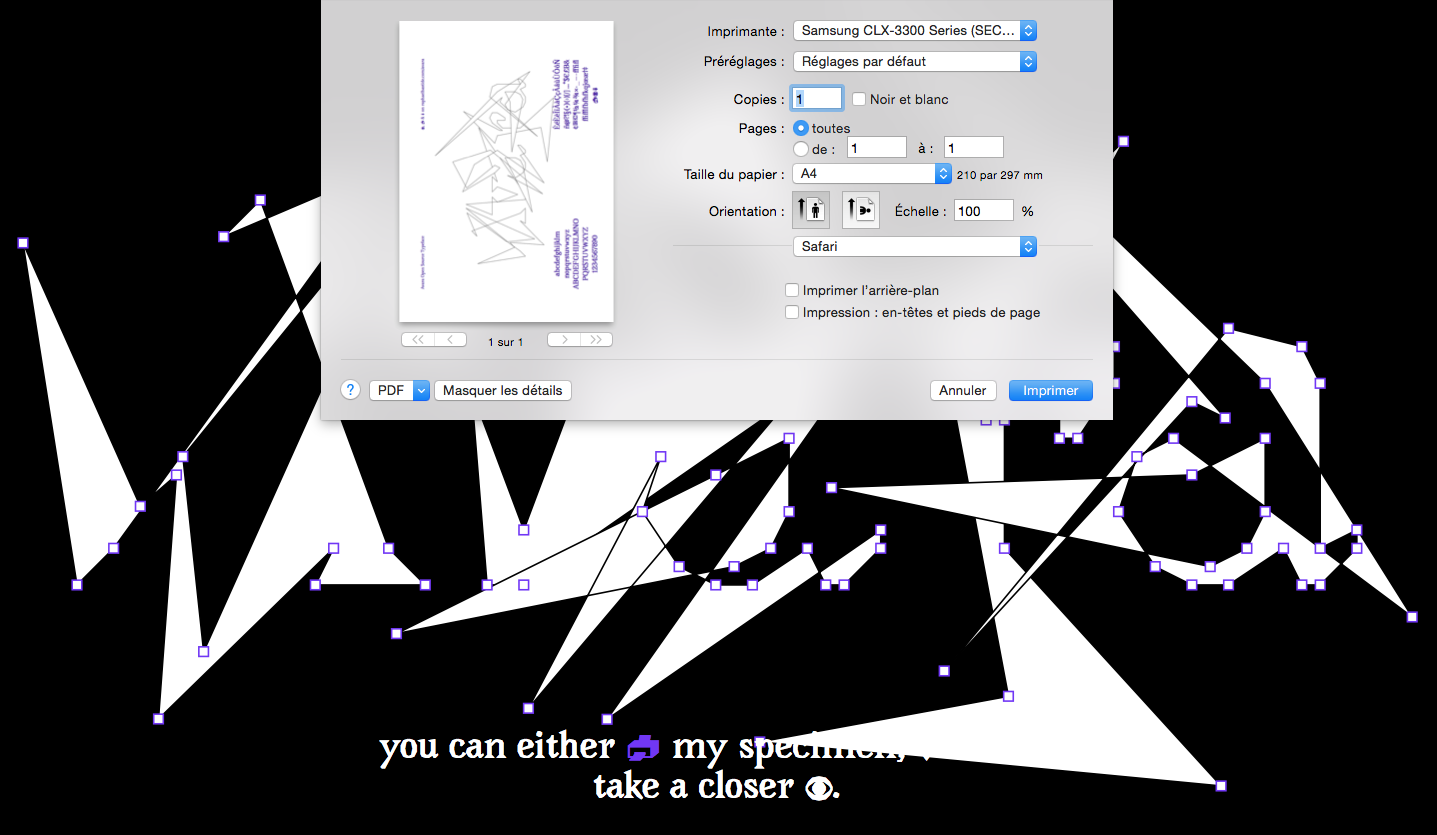
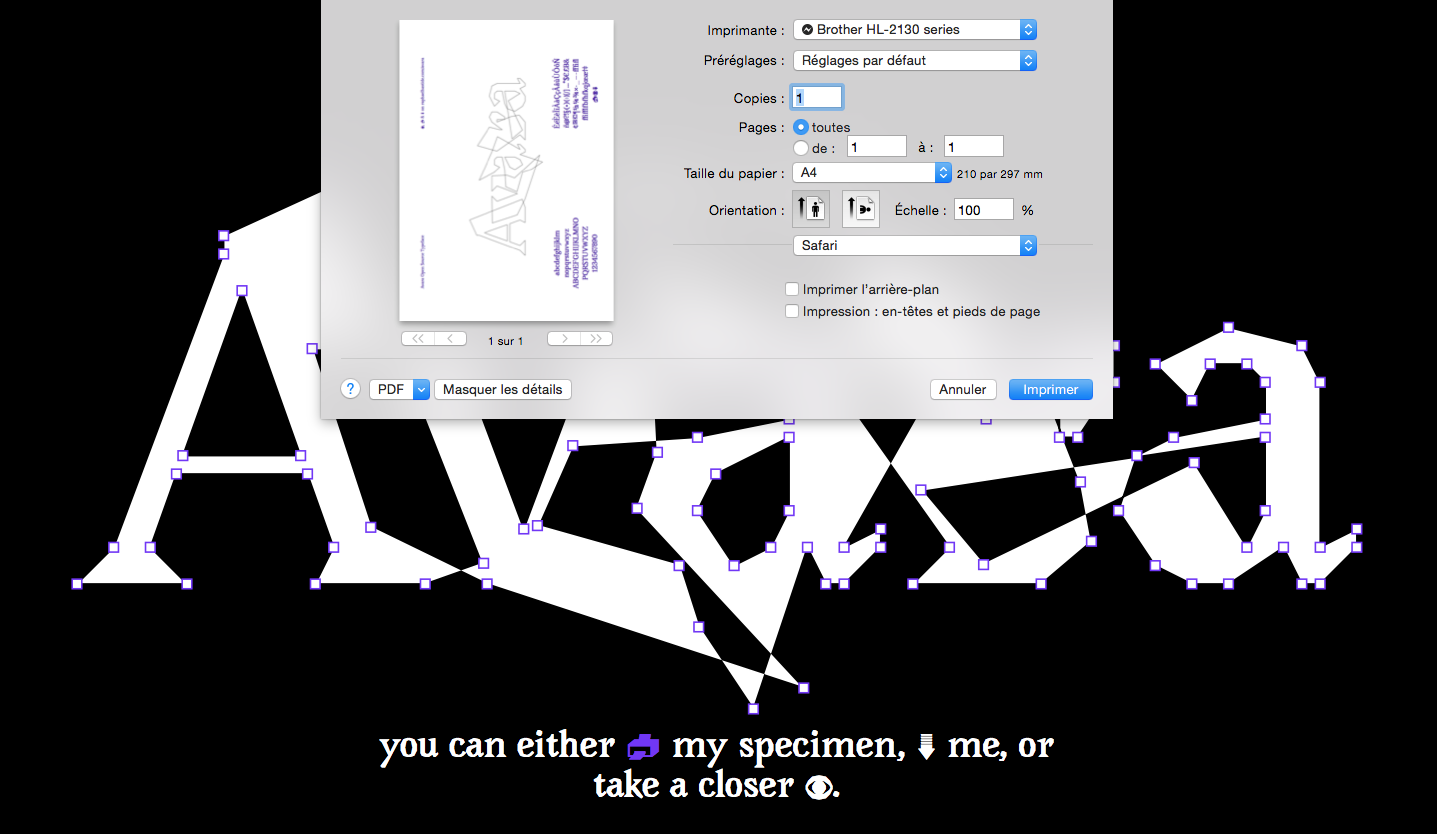
web display changes

diff --git a/webspecimen/css/main.css b/webspecimen/css/main.css
@@ -75,6 +75,12 @@ svg {
      width: 100%;
      height: 100%;
 }
+path {
+ fill: #FFF;
+ stroke: #000;
+ fill-rule: nonzero;
+ mix-blend-mode: difference;
+}
 
 a{text-decoration:none; } 
 
@@ -102,6 +108,11 @@ html,body{margin:0;padding:0;}
     stroke-width:0;
     fill:none;
     fill-opacity:0;
+}
+path {
+ fill-opacity:0;
+ stroke: #000;
+  mix-blend-mode: normal;
 }
 #avara{
 	margin-right: 0.5cm;
